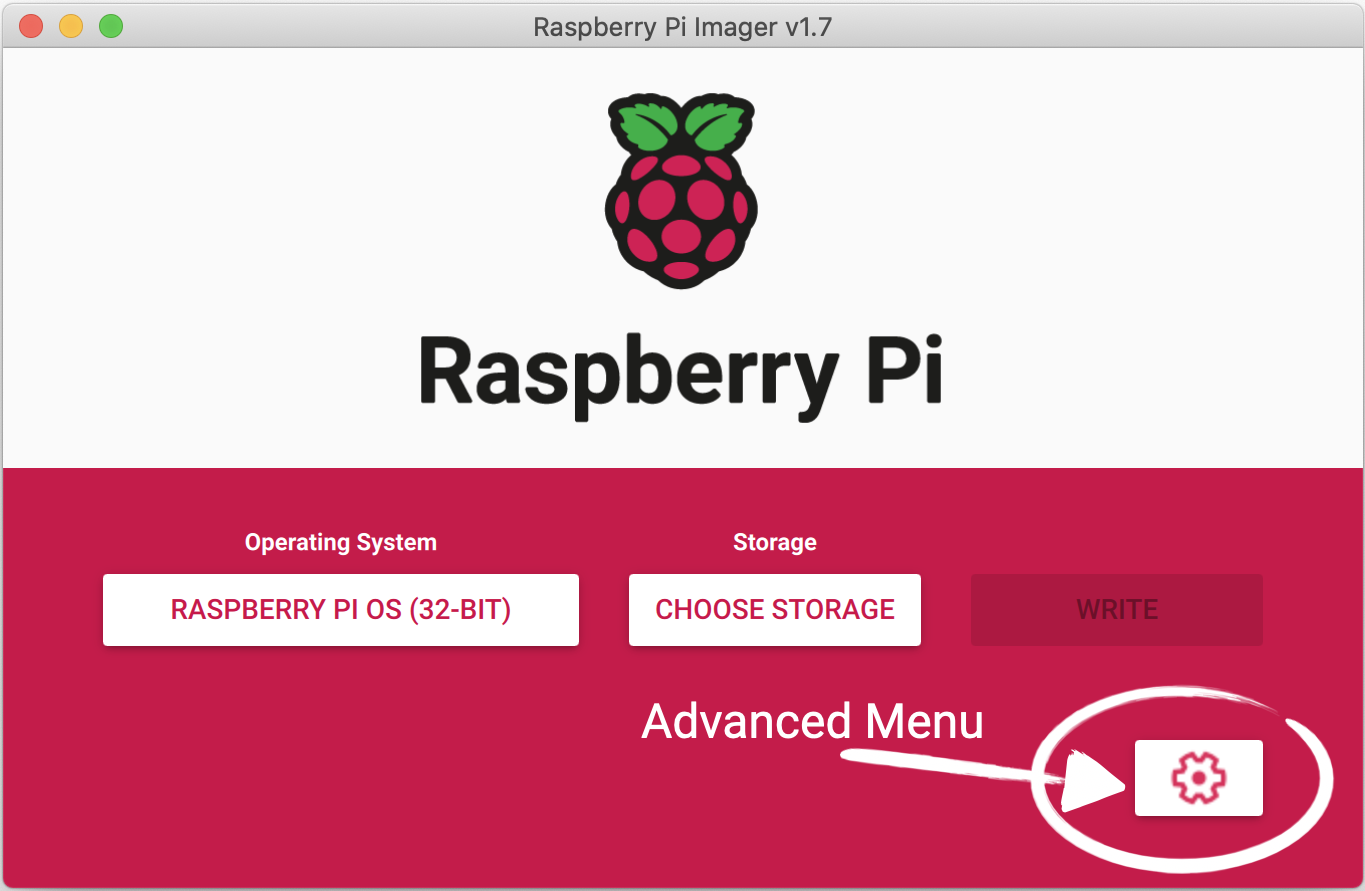
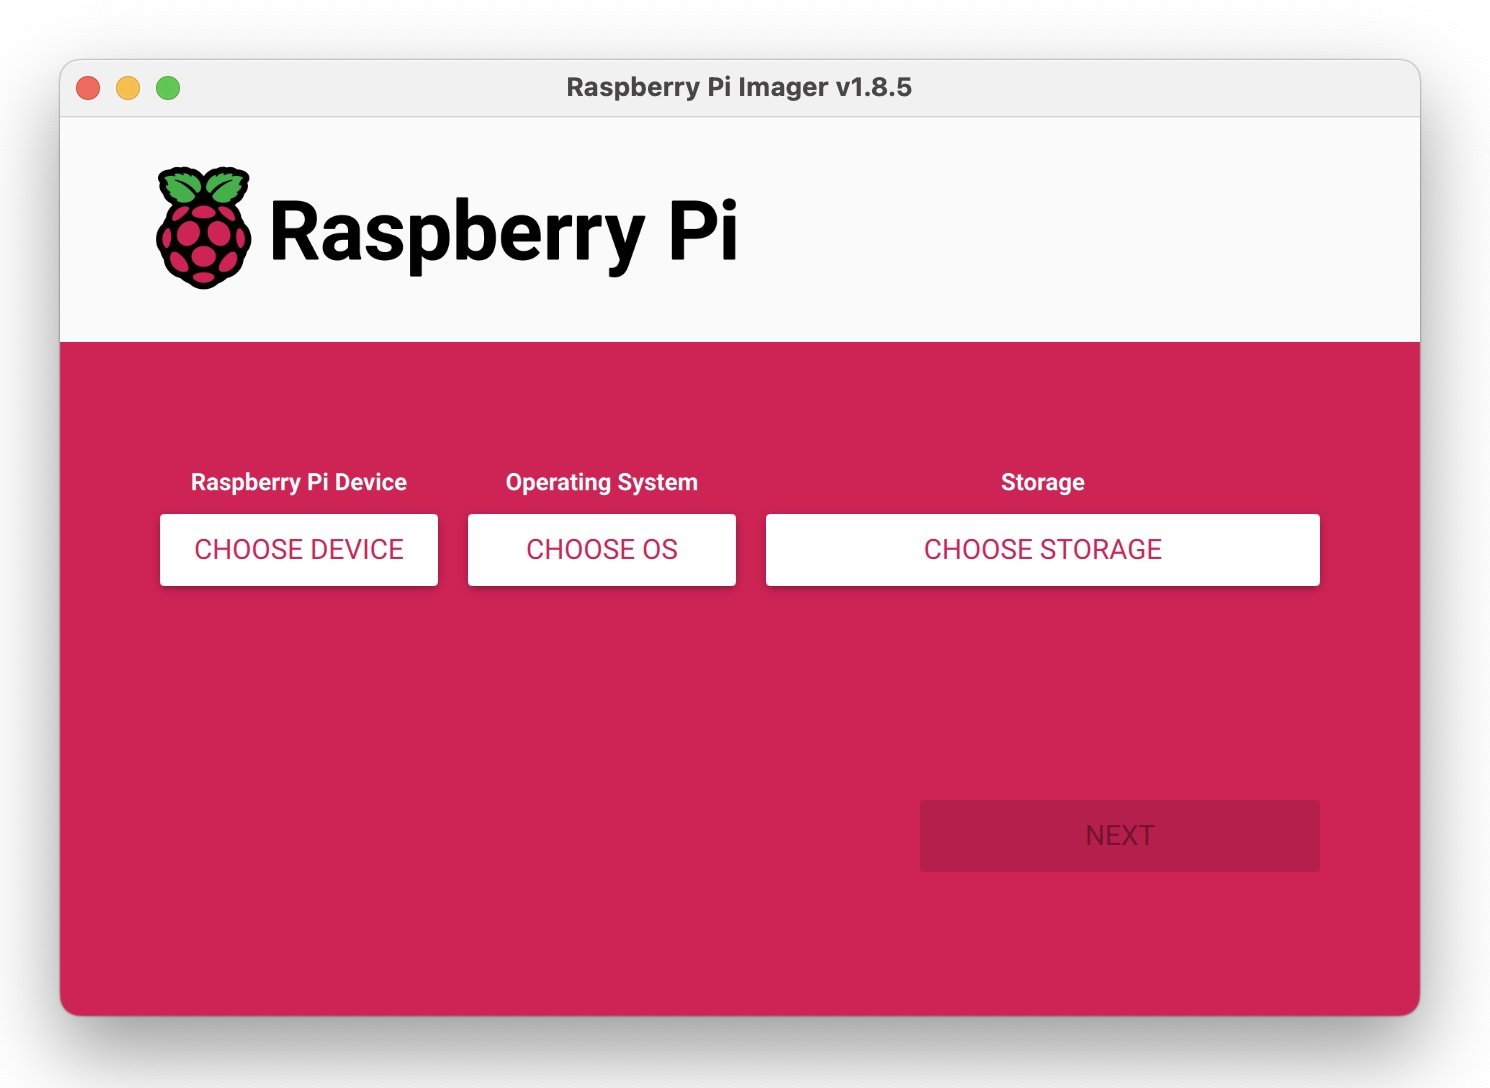
Update OS instructions

diff --git a/docs/Install/index.md b/docs/Install/index.md
@@ -4,25 +4,69 @@
 
 You will need the following:
 
-- A Raspberry Pi of any type
+- A Raspberry Pi:
+  - Raspberry Pi 1 B
+  - Raspberry Pi 1 B+
+  - Raspberry Pi 1 A+
+  - Raspberry Pi 2
+  - Raspberry Pi Zero
+  - Raspberry Pi 3
+  - Raspberry Pi Zero W
+  - Raspberry Pi 3 B+
+  - Raspberry Pi 3 A+
+  - Raspberry Pi 4
 - An SD card for the OS image
 - A power supply for the Pi. Pay attention here to potentially noisy power supplies. You will benefit from a well-regulated supply with sufficient ripple suppression. You may see supply ripple as mixing products centered around the transmit carrier, typically at 100/120Hz.
 
 ## Prerequisites
 
-This may be the most challenging part of the whole installation. You must have a working Raspberry Pi with Internet access. It can be hard-wired or on Wi-Fi. There is no better place to learn how to set up your new Pi than the people who make it themselves. [Go here](https://www.raspberrypi.com/documentation/computers/getting-started.html), and learn how to install the operating system with the [Raspberry Pi Imager](https://www.raspberrypi.com/software/). You can pre-config your image with your local/time zone, Wi-Fi credentials, and a different hostname and enable SSH access from the little cog wheel on the Imager's control page.
+This section may be the most challenging part of the whole installation.  *You must have a working Raspberry Pi with Internet access.*  It can be hard-wired or on Wi-Fi. There is no better place to learn how to set up your new Pi than the people who make it themselves. [Go here](https://www.raspberrypi.com/documentation/computers/getting-started.html), and learn how to install the operating system with the [Raspberry Pi Imager](https://www.raspberrypi.com/software/). To enable SSH access, you can pre-configure your image with your local/time zone, Wi-Fi credentials, and a different hostname.
 
 ![Raspberry Pi Imager](rpi_imager.png)
 
-Select any Raspbian image you like. You can use a full-featured desktop version with all the bells and whistles, or wspr will run just fine on the lite version on an SD card as small as 2 GB (although a minimum of 8 GB seems to be more comfortable these days.)  If you use the cog wheel to configure your Pi first, as described above, you can even run it headless without a keyboard, mouse, or monitor. Provided you enabled SSH, you can use your command line from Windows 10/11, MacOS, or another Pi.
+**You MUST use a 32-bit version**, and I am only testing with the current version: Bookworm.
 
-Whatever you do, you will need command line access to your Pi to proceed. Once you are up and running and connected to the Internet, you may proceed with Wsprry Pi installation.
+You can use a full-featured desktop version with all the bells and whistles, or wspr will run just fine on the Lite version on an SD card as small as 2 GB (although a minimum of 8 GB seems more comfortable these days.)  You can even run it headless without a keyboard, mouse, or monitor. If you enable SSH, you can use your command line from Windows 10/11, MacOS, or another Pi.
+
+Whatever you do, you will need command line access to your Pi to proceed. Once you are up and running and connected to the Internet, you may proceed with Wsprry Pi installation. Here is a recommended process:
+
+**Open the Raspberry Pi Imager:**
+
+* Choose your Raspberry Pi Device
+* Choose your Operating system from one of these:
+  * Raspberry Pi OS (32-bit)
+  * Raspberry Pi OS (other)
+    * Raspberry Pi OS Lite (32-bit)
+    * Raspberry Pi OS Full (32-bit)
+* Choose Storage (there should be only one SD card inserted)
+* Next
+* At "Use OS Customizations," select "Edit Settings"
+  * On the General Tab
+    * Set the hostname to something unique on your network (like `wspr`)
+    * Set username and password (you must do this, or SSH will not work) 
+      * Only the username `pi` has been tested
+      * Choose a password you can remember
+    * Configure wireless LAN
+      * SSID is your network name
+      * The password is whatever you use
+      * Select the proper Wireless LAN country
+    * Set Locale settings to your location and keyboard type
+  * On the Services Tab
+    * Check "Enable SSH"
+    * Select "Use Password authentication"
+  * Save
+  * "Yes" to apply customizations
+* "Yes" to erase media
+* Wait for the writer to tell you it is okay to remove the SD card
 
 ## System Changes
 
-Aside from the obvious installation of Wsprry Pi, the install script will do the following:
+Aside from the obvious, installing Wsprry Pi, the install script will do the following:
 
-- Install Apache2, a popular open-source, cross-platform web server that is the most popular web server by the numbers. The [Apache Software Foundation](https://www.apache.org/) maintains Apache. Apache is used to control wspr from an easy-to-use web page.
+- **Install Apache2**, a popular open-source, cross-platform web server that is the most popular web server by the numbers. The [Apache Software Foundation](https://www.apache.org/) maintains Apache. Apache is used to control wspr from an easy-to-use web page.
+- **Install PHP**, a popular general-purpose scripting language especially suited to web development. The [PHO Group](https://www.php.net/) maintains PHP. I wrote the web pages in PHP.
+- **Install Raspberry Pi development libraries**, `libraspberrypi-dev` `raspberrypi-kernel-headers`.
+- **Git for Debian**, for no other reason than it is easier for me to develop on a system with Git. Since this is free, you get to put up with me being lazy about this part. :)
 - Optionally install support for TAPR's shutdown button.
 - Disable the Raspberry Pi's built-in sound card. Wsprry Pi uses the RPi PWM peripheral to time the frequency transitions of the output clock. The Pi's sound system also uses this peripheral; any sound events during a WSPR transmission will interfere with WSPR transmissions.
 
@@ -37,23 +81,23 @@ This install command is idempotent; running it additional times will not have an
 The first screen will welcome you and give you instructions:
 
 ```text
-You will be presented with some choices during the install.
-Most frequently you will see a 'yes or no' choice, with the
-default choice capitalized like so: [y/N]. Default means if
+The script will present you with some choices during the installation.
+You will most frequently see a 'yes or no' choice, with the
+default choice capitalized as so: [y/N]. Default means if
 you hit <enter> without typing anything, you will make the
-capitalized choice, i.e. hitting <enter> when you see [Y/n]
+capitalized choice, i.e., hitting <enter> when you see [Y/n]
 will default to 'yes.'
 
-Yes/no choices are not case sensitive. However; passwords,
-system names and install paths are. Be aware of this. There
-is generally no difference between 'y', 'yes', 'YES', 'Yes'.
+Yes/no choices are not case-sensitive. However, passwords,
+system names, and install paths are. Be aware of this. There
+is generally no difference between 'y', 'yes,' 'YES,' and 'Yes.'
 
 Press any key when you are ready to proceed. 
 ```
 
-Take special note about default choices, `[Y/n]` means that hitting `Enter` will default to "Yes," should you want to select no, you should choose "N."
+Take special note of default choices. `[Y/n] means that hitting `Enter` will default to "Yes. " If you want to select no, you should choose "N."
 
-The first choice you make will be related to the system time zone and time:
+The first choice you make will be related to the system time zone and time if you did not set it before flashing the OS:
 
 ```text
 The time is currently set to Sun 19 Feb 12:05:48 CST 2023.
@@ -65,19 +109,19 @@ Please be sure this is correct. If you select "No," the script will provide you 
 The next choice you make will be whether or not to add support for the system shutdown button:
 
 ```text
-Support system shutdown button (TAPR)? [y/N]:
+Support system shutdown button (TAPR)? y/N]:
 ```
 
-This button is included on the TAPR hat and allows one to press the button on the hat to initiate a clean system shutdown. It is best to shut your Pi down correctly to avoid corrupting the SD card; the button allows that without logging in, typically shutting the Pi down in a few seconds.
+This button is included on the TAPR hat and allows one to press it to initiate a clean system shutdown. t is best to shut your Pi down correctly to avoid corrupting the SD card; the button allows that without logging in, typically shutting the Pi down in a few seconds.
 
-Following this choice, some system packages, including Apache2, an open-source web server, will be installed.
+Following this choice, the script will install some packages.
 
 When complete, the script displays the final screen:
 
 ```text
 The WSPR daemon has started.
  - WSPR frontend URL   : http://192.168.1.24/wspr
-                  -or- : http://wspr.local/wspr
+ -or- : http://wspr.local/wspr
  - Release version     : 0.0.1
 
 Happy DXing!
@@ -85,11 +129,11 @@ Happy DXing!
 
 At this point, Wsprry Pi is installed and running.
 
-Note the URL for the configuration UI listed as a {name}.local and IP address choice. Using your system name is a Zeroconfiguration service capability enabled by default with Apple products. It allows accessing your home systems with their local names without remembering the IP Address. The .local name is convenient for automatically-assigned IP addresses in most home networks. The IP address of your Raspberry Pi may change over time, but the name will not.
+Note the URL for the configuration UI listed as a `{name}.local` and IP address choice. You can access your system with the `{name}.local` names without remembering the IP address. The `{name}.local` is convenient for automatically assigned IP addresses in most home networks. The IP address of your Raspberry Pi may change over time, but the name will not.
 
-Some Windows systems can use this naming standard without additional work; some may need Apple's [Bonjour Print Services](https://support.apple.com/kb/dl999) installed to enable this helpful tool.
+Some Windows systems can use this naming standard without additional work, but others may need Apple's [Bonjour Print Services](https://support.apple.com/kb/dl999) installed to enable this helpful tool. If you get a host hot found error, try installing Bonjour.
 
-Connect to your new web page from your favorite computer or cell phone with the IP address or the {hostname}.local name, and you can begin to set things up. See Operations for more information.
+Connect to your new web page from your favorite computer or cell phone with the IP address or the `{name}.local` name, and you can begin to set things up. See Operations for more information.
 
 ## Additional Hardware
 
